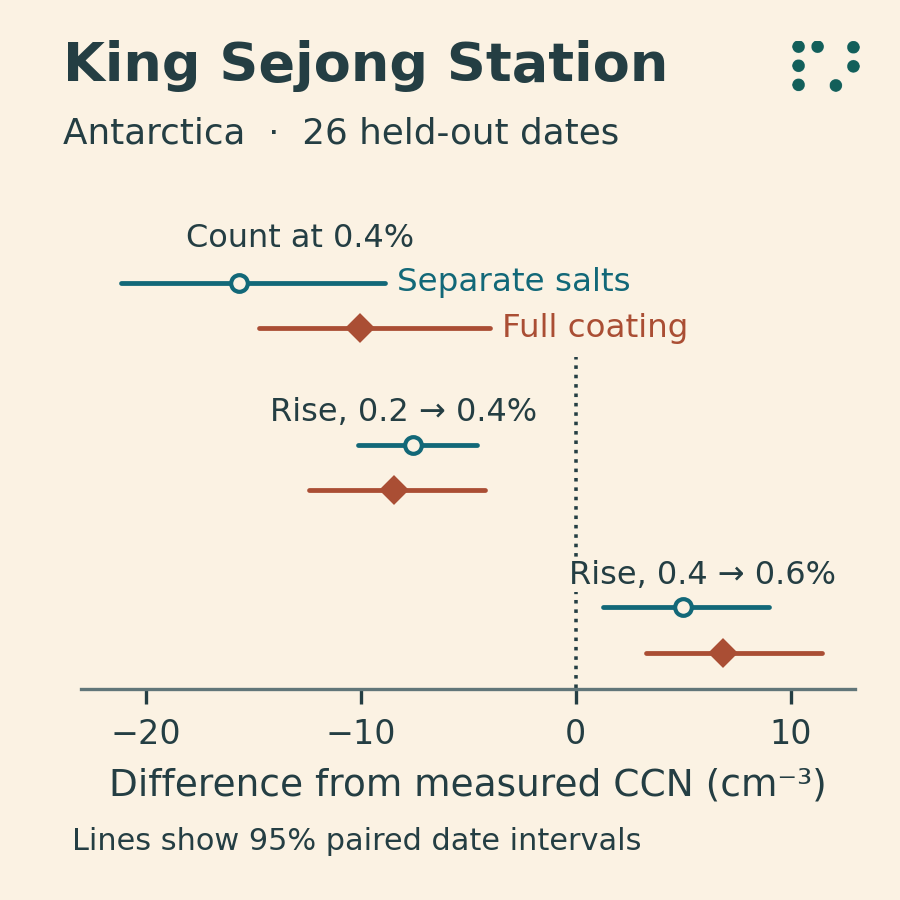
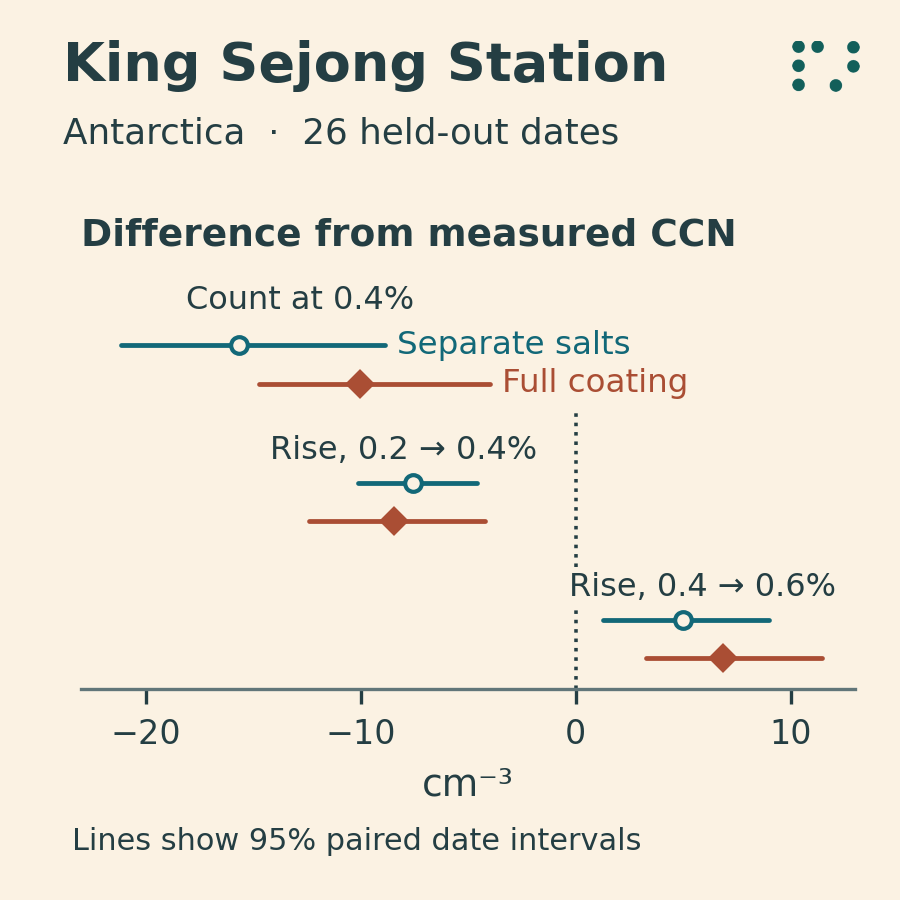
docs: restore Antarctic graph title above the plot

Changed region(s): [[0.0933, 0.2178, 0.84, 0.5911], [0.1244, 0.84, 0.9022, 0.9022], [0.6222, 0.6222, 0.9333, 0.7467]]

diff --git a/scripts/antarctic_ccn/toc.py b/scripts/antarctic_ccn/toc.py
@@ -22,7 +22,13 @@ def render():
         fig.text(0.07, 0.91, "King Sejong Station", weight="bold", fontsize=13)
         fig.text(0.07, 0.84, "Antarctica  ·  26 held-out dates", fontsize=8.6)
         add_toc_logo(fig, corner="top right")
-        ax = fig.add_axes([0.09, 0.235, 0.86, 0.55])
+        ax = fig.add_axes([0.09, 0.235, 0.86, 0.465])
+        ax.set_title(
+            "Difference from measured CCN",
+            loc="left",
+            weight="bold",
+            fontsize=9,
+        )
         # End the zero guide below the directly labelled intervals.
         ax.vlines(0, -0.50, 1.54, ls=":", lw=0.85, color=INK)
         for i, (key, label) in enumerate(
@@ -85,7 +91,7 @@ def render():
             xticks=[-20, -10, 0, 10],
             yticks=[],
         )
-        ax.set_xlabel("Difference from measured CCN (cm⁻³)", fontsize=9)
+        ax.set_xlabel("cm⁻³", fontsize=9)
         ax.grid(False)
         for side in ["left", "top", "right"]:
             ax.spines[side].set_visible(False)
